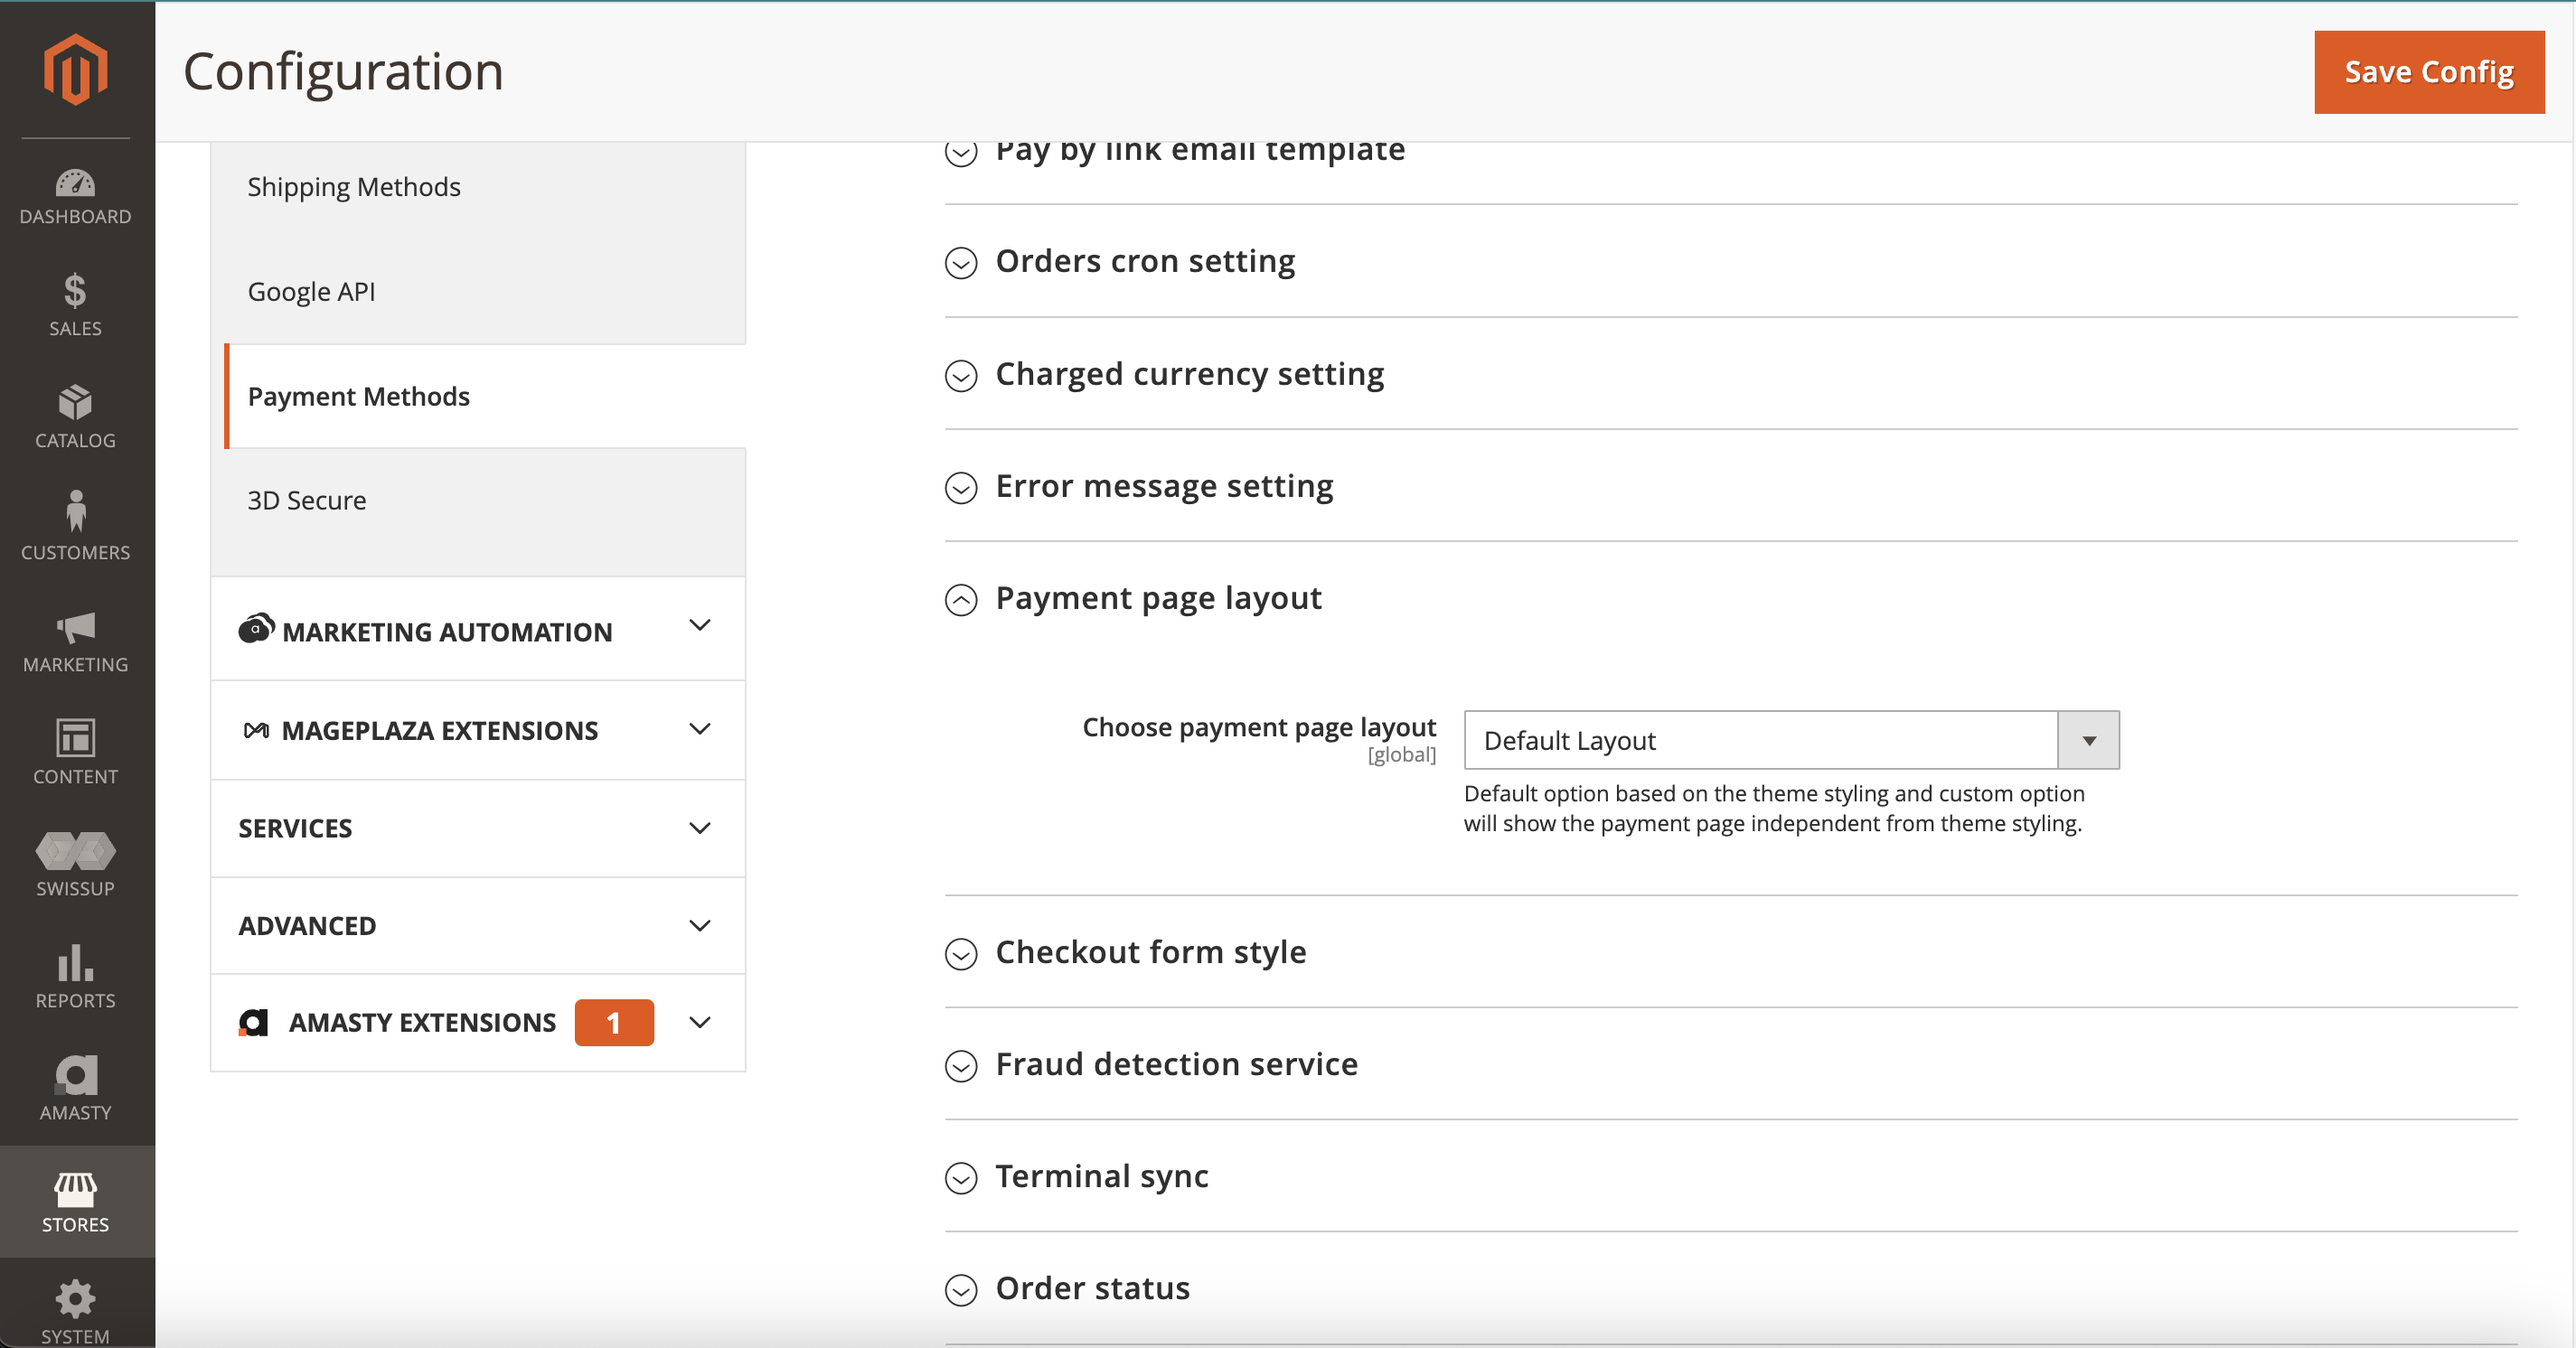
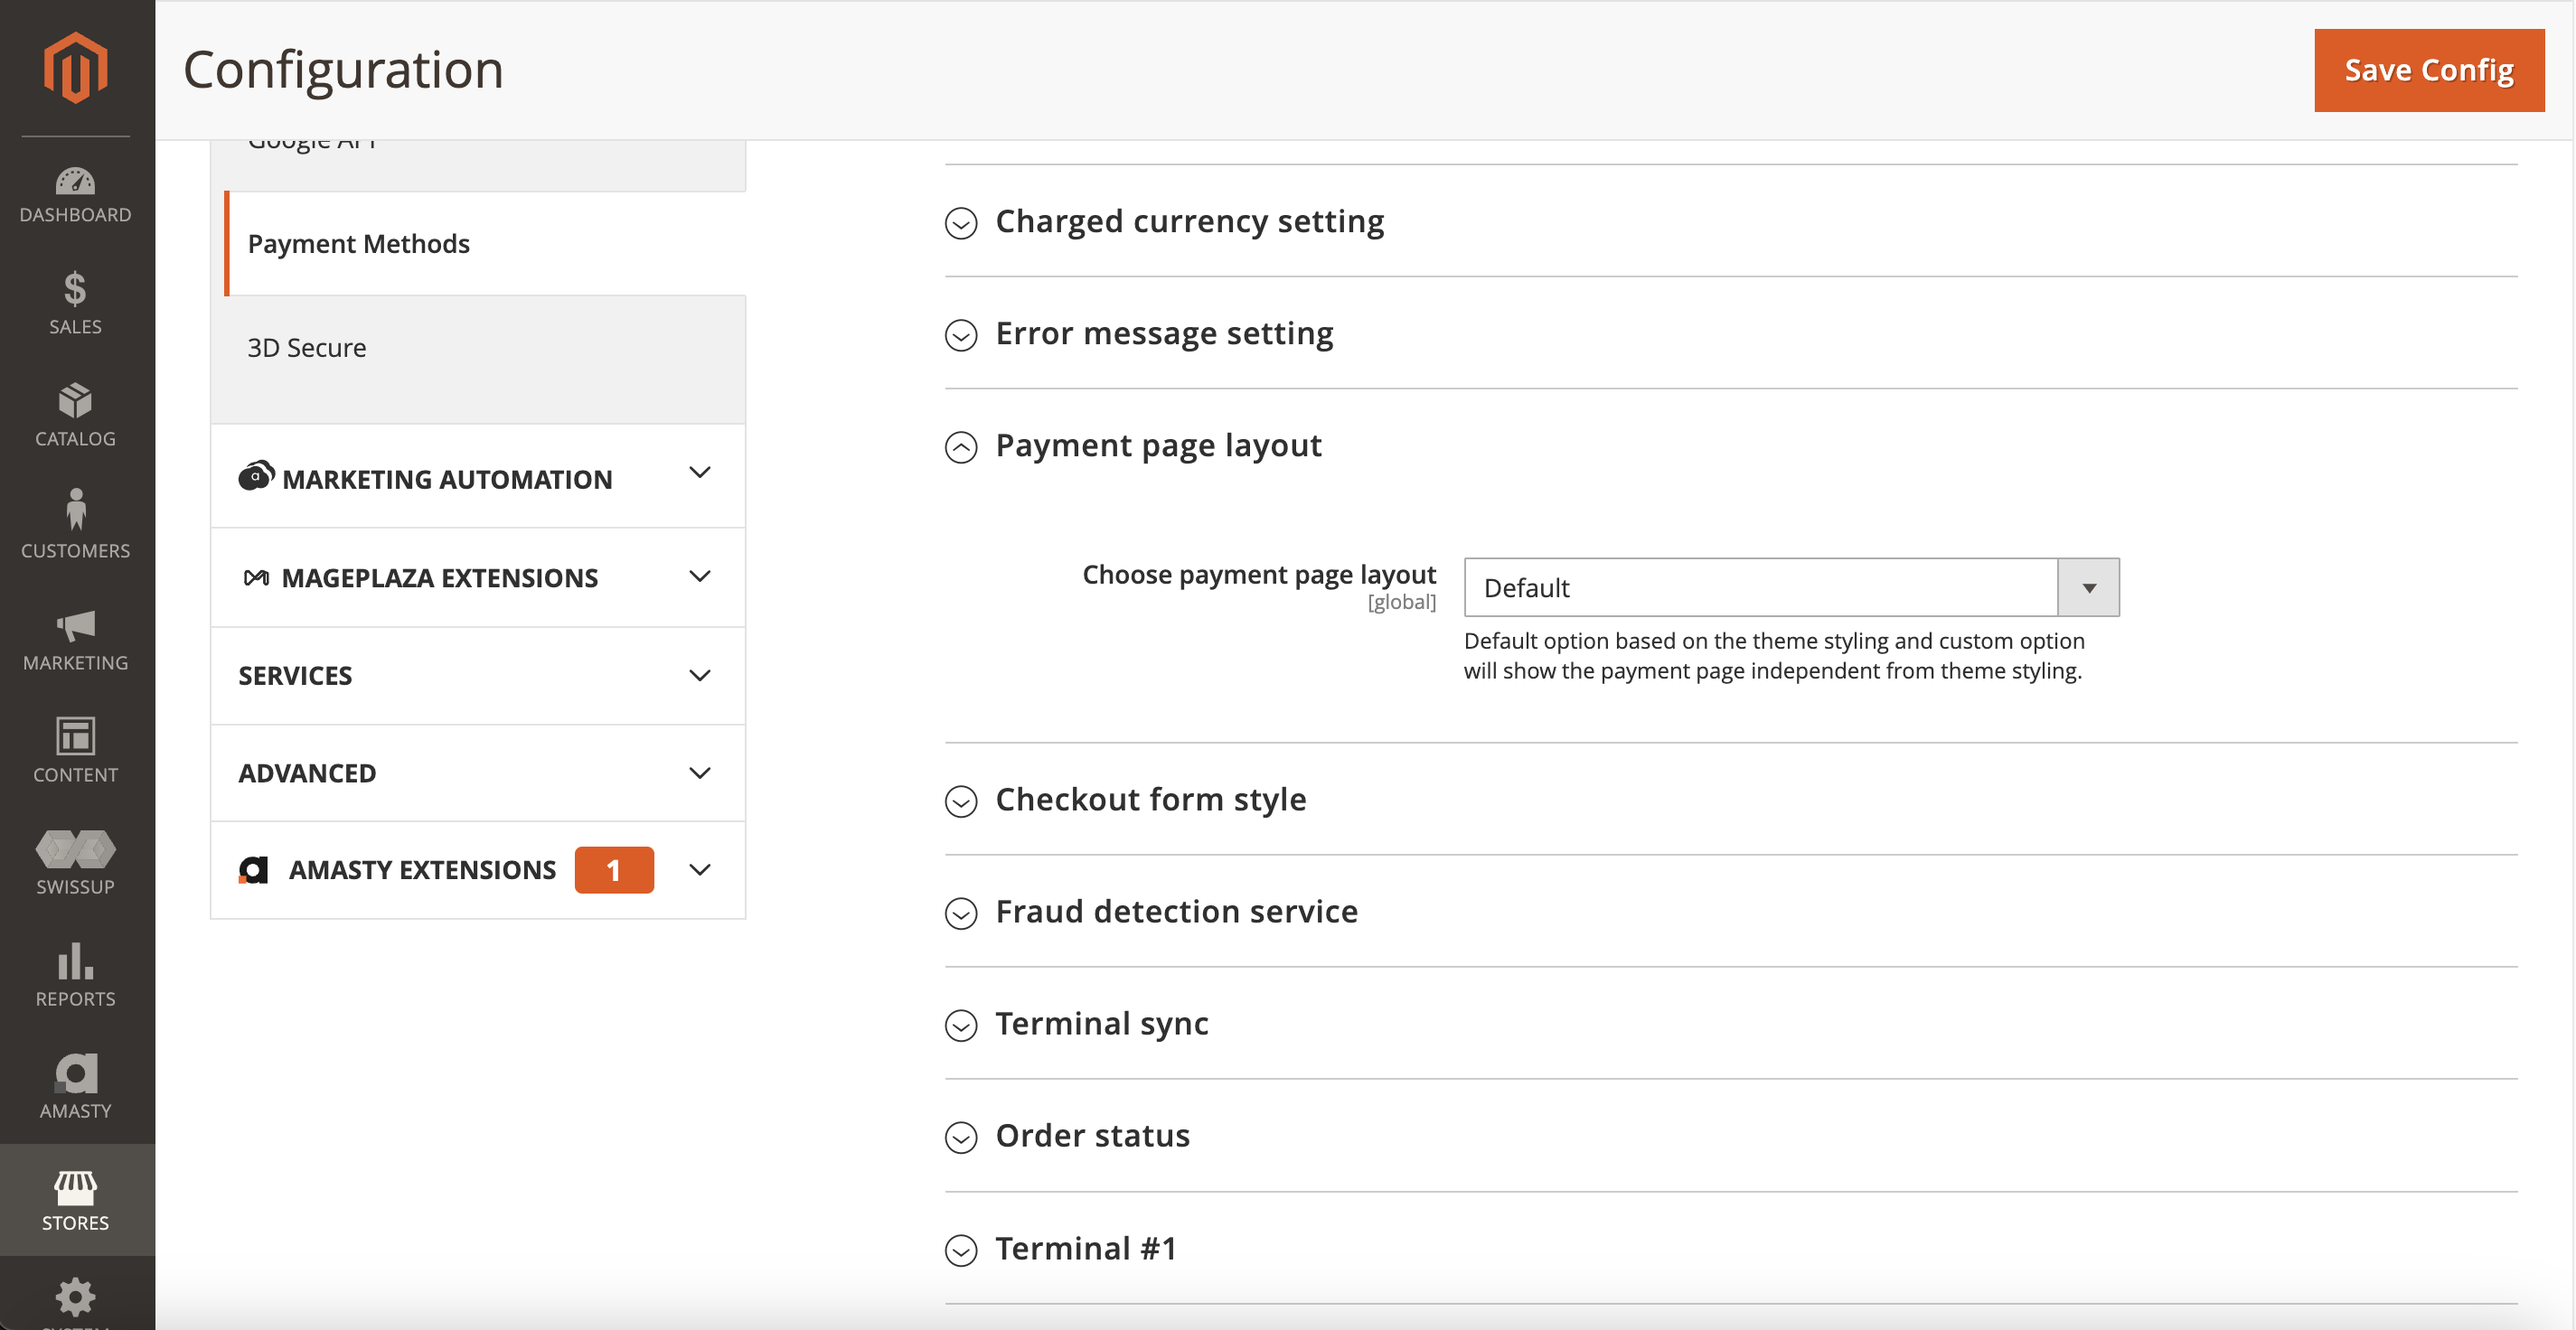
Update `Payment page layout` dropdown options and fix typo

diff --git a/Model/Config/Source/PaymentPageLayout.php b/Model/Config/Source/PaymentPageLayout.php
@@ -16,8 +16,8 @@ class PaymentPageLayout implements ArrayInterface
      * @var array
      */
     private static $layoutOptions = [
-        'default_layout' => 'Default Layout',
-        'custom_layout' => 'Custom Layout'
+        'default_layout' => 'Default',
+        'custom_layout' => 'Checkout Independent'
     ];
 
     /**

diff --git a/wiki.md b/wiki.md
@@ -186,11 +186,11 @@ Choose one of the below options from `Payment page layout` dropdown to select th
 
 ![Payment page layout configuration](docs/payment_page_styling.png)
 
-- `Default Layout` This will show the payment page based on the store theme styling.
+- `Default` This will use the styling from the checkout/theme.
 
     ![checkout_style](docs/checkout_style.jpg)
 
-- `Custom Custom` This will show the payment page independent from the theme styling. This will provide a visually appealing appearance seamlessly, without conflicting with the theme styling.
+- `Checkout Independent` This will show the payment page independent from the theme styling. This will provide a visually appealing appearance seamlessly, without conflicting with the theme styling.
 
     ![custom_payment_page_layout](docs/custom_payment_page_layout.png)
 

diff --git a/CHANGELOG.md b/CHANGELOG.md
@@ -1,6 +1,11 @@
 # Changelog
 All notable changes to this project will be documented in this file.
 
+## [3.7.4]
+### Fixed
+- Fix typo from the wiki doc.
+- Update `Payment page layout` dropdown options. 
+
 ## [3.7.3]
 ### Added
 - Add payment page `Custom Layout` option, which is independent of the store styling.
